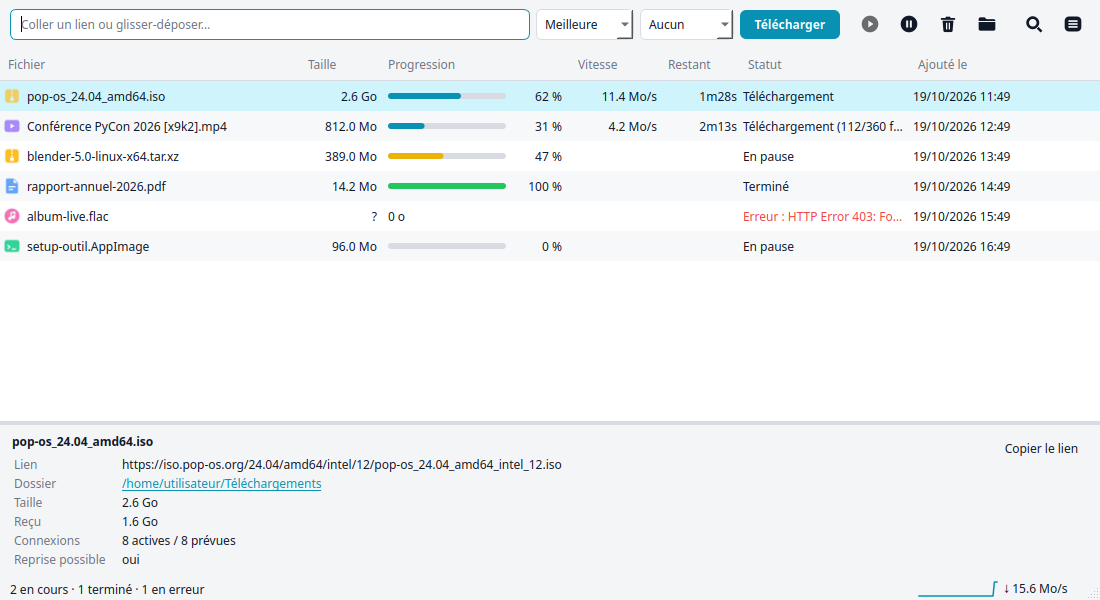
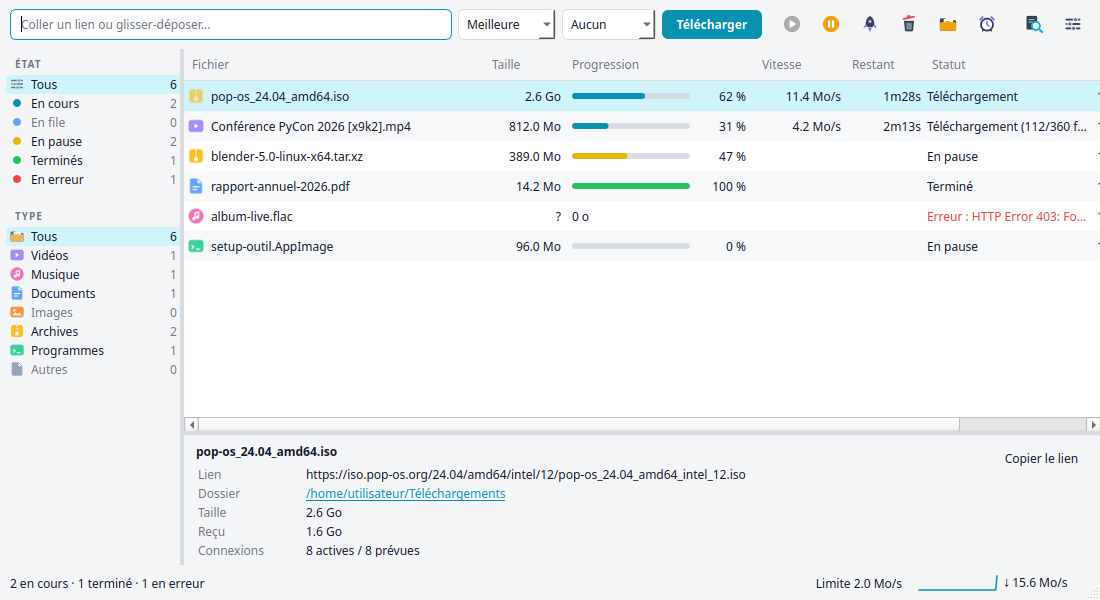
Illustrer l'accueil et la fenêtre d'ajout, mettre à jour les captures

diff --git a/pydm/gui/adddialog.py b/pydm/gui/adddialog.py
@@ -54,6 +54,7 @@ class AddDialog(QDialog):
         self.results_q = queue.Queue()      # (index, résultat) issus des threads d'analyse
         self.thumb_q = queue.Queue()        # miniature YouTube chargée sans attendre l'analyse
         self.has_thumb = False
+        self.thumb_art = None               # illustration montrée à la place de la miniature (erreur, DRM)
         self.page_title = title
         self.closed = False
         self.started_at = time.monotonic()
@@ -239,6 +240,8 @@ class AddDialog(QDialog):
         if r["kind"] == "error":
             self.info_label.setText(breakable(r["error"]))
             self.info_label.setStyleSheet(f"color: {theme.STATE_COLORS['error']};")
+            self.thumb_art = "cadenas" if r.get("drm") else "lien-brise"
+            self.thumb.setPixmap(theme.illustration(self.thumb_art, 128, self.devicePixelRatioF()))
             if r.get("drm"):
                 self.download_btn.setEnabled(False)
                 self.later_btn.setEnabled(False)

diff --git a/tests/test_gui_adddialog.py b/tests/test_gui_adddialog.py
@@ -354,5 +354,17 @@ class DialogMinorTest(DialogCase):
         self.assertEqual(dlg.thumb.pixmap().toImage().pixelColor(5, 5).name(), "#123456")
 
 
+
+@unittest.skipUnless(HAS_QT, "PySide6 absent")
+class DialogArtTest(DialogCase):
+    def test_vignette_selon_le_cas(self):
+        for res, art in ((result(kind="error", error="x", choices=[]), "lien-brise"),
+                         (result(kind="error", error="contenu protégé par DRM", drm=True, choices=[]), "cadenas"),
+                         (result(), None)):
+            with self.subTest(art=art):
+                dlg = self.dialog(res)
+                self.wait_filled(dlg)
+                self.assertEqual(dlg.thumb_art, art)
+
 if __name__ == "__main__":
     unittest.main()

diff --git a/pydm/gui/welcome.py b/pydm/gui/welcome.py
@@ -15,7 +15,7 @@ class WelcomeDialog(QMessageBox):
     def __init__(self, parent=None):
         super().__init__(parent)
         self.setWindowTitle("PyDM")
-        self.setIconPixmap(theme.logo().pixmap(64, 64))
+        self.setIconPixmap(theme.illustration("installe", 150, self.devicePixelRatioF()))
         self.setText("<b>PyDM est installé</b>")
         self.setInformativeText("Il est dans le menu des applications, et l'extension du navigateur peut "
                                 "maintenant lui envoyer vos téléchargements.")

diff --git a/tests/test_gui_welcome.py b/tests/test_gui_welcome.py
@@ -76,5 +76,12 @@ class WelcomeTest(unittest.TestCase):
             self.gui_app.forget_bundle_qt_paths()
             self.assertIn("QT_PLUGIN_PATH", os.environ)
 
+    def test_illustration_installe(self):
+        from pydm.gui import theme
+        dlg = self.welcome.WelcomeDialog()
+        self.addCleanup(dlg.deleteLater)
+        expected = theme.illustration("installe", 150, dlg.devicePixelRatioF())
+        self.assertEqual(dlg.iconPixmap().toImage(), expected.toImage())
+
 if __name__ == "__main__":
     unittest.main()

diff --git a/CHANGELOG.md b/CHANGELOG.md
@@ -7,6 +7,21 @@ and the project follows [Semantic Versioning](https://semver.org/).
 
 ## [Unreleased]
 
+### Changed
+
+- New visual identity: toolbar actions are flat two-tone illustrations with one
+  colour per action (green resume, amber pause, violet "start now" rocket, red
+  bin, alarm-clock scheduler…), following the light or dark theme.
+- Empty list, empty filter and empty search now show an illustration with a
+  short explanation; the welcome message and the add window (link error, DRM)
+  use illustrations too.
+
+### Fixed
+
+- Very long titles or links without spaces no longer widen the main, add and
+  progress windows beyond the screen; the add window shows the title on two
+  lines with the full title as a tooltip.
+
 ## [1.4.0] - 2026-10-22
 
 ### Added
